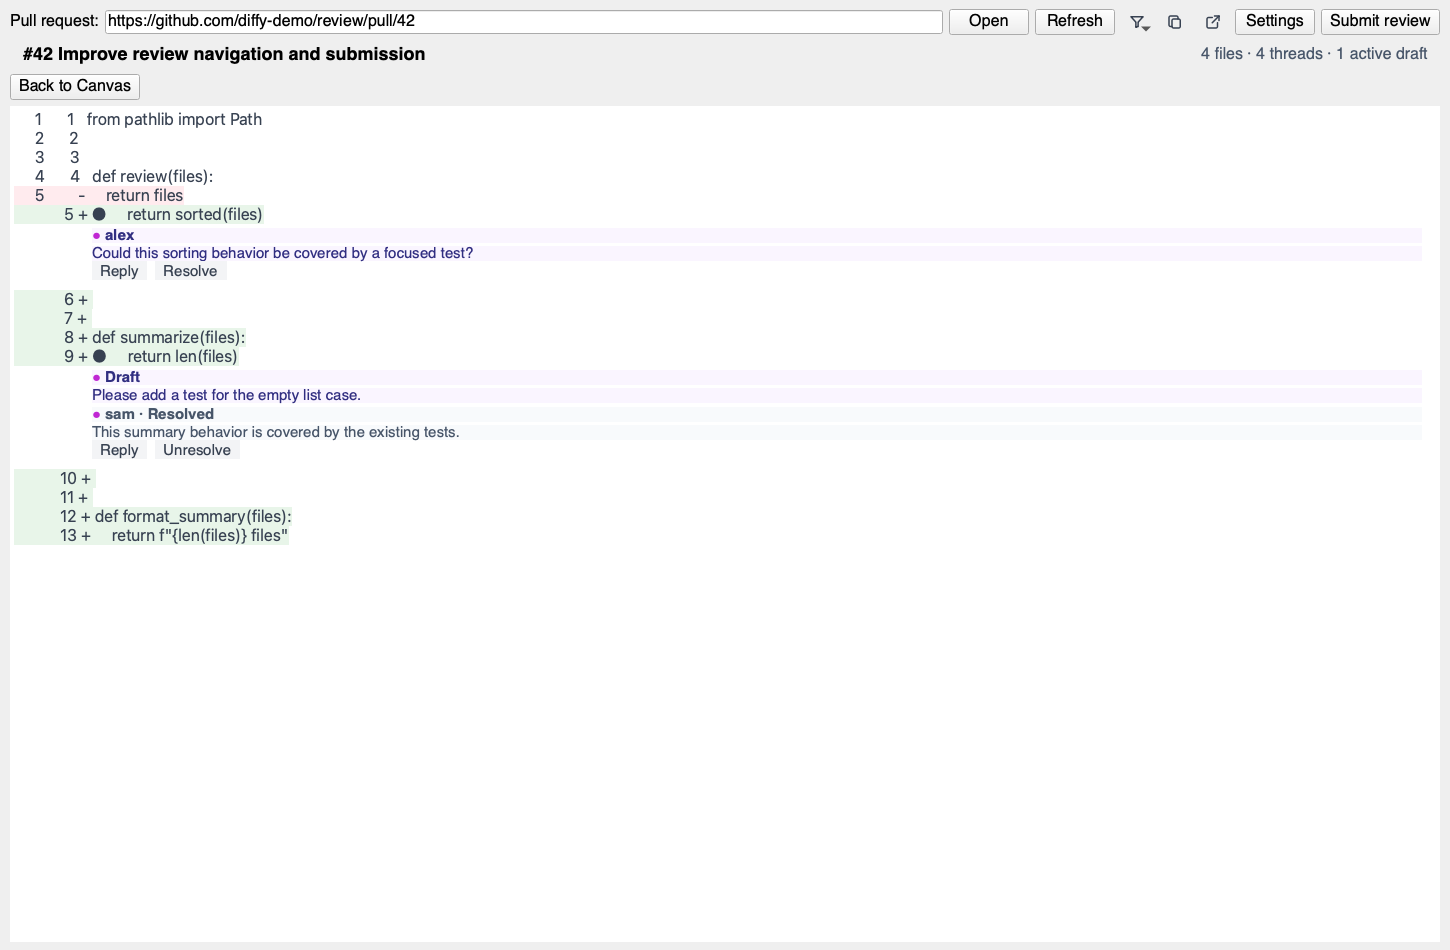
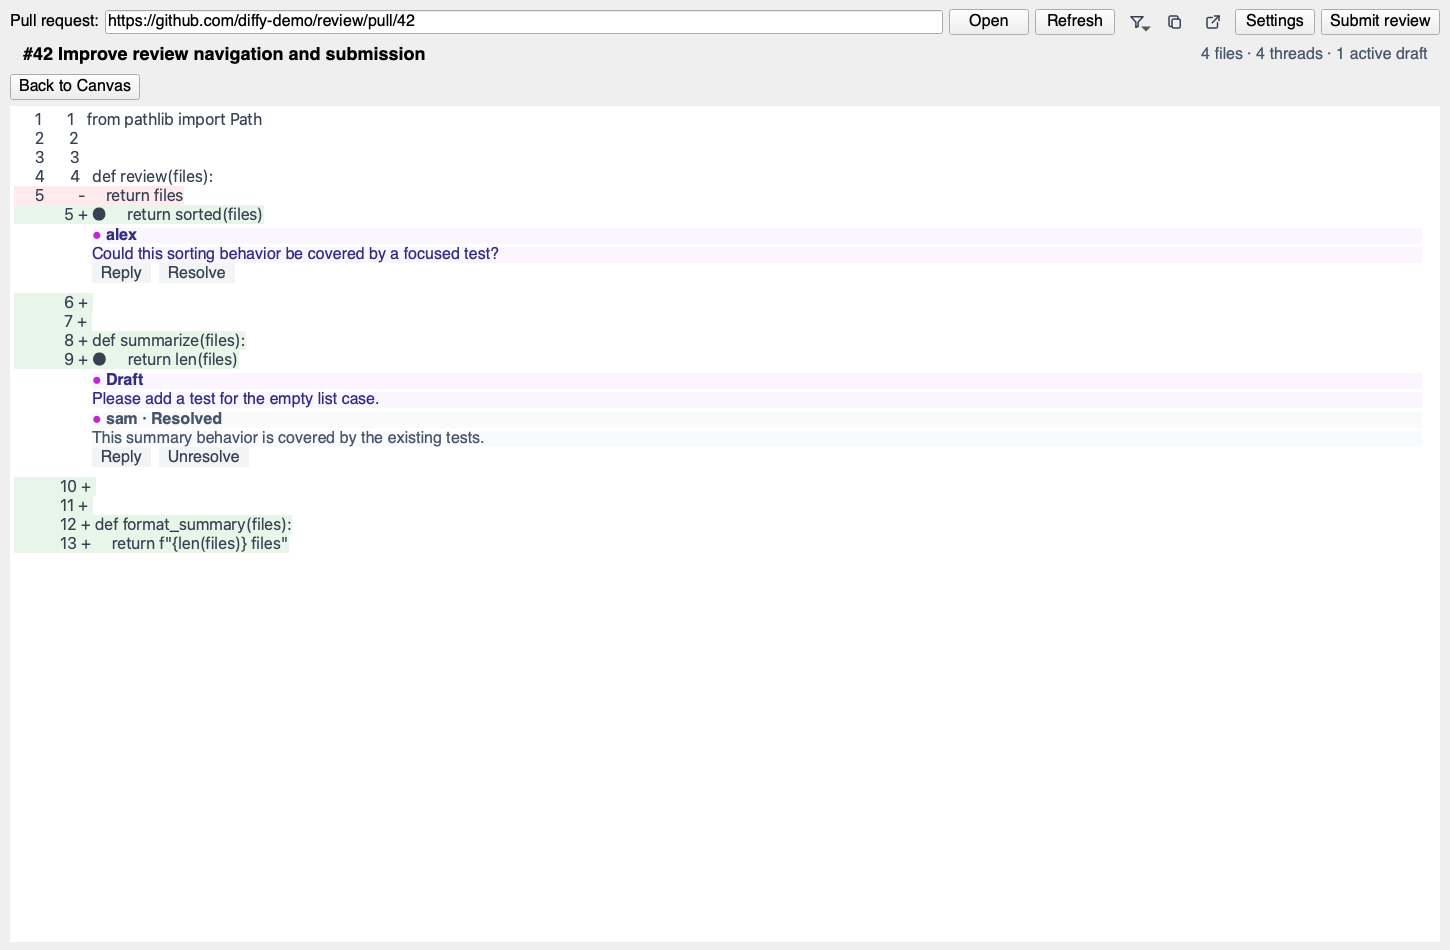
Configure canvas and diff font sizes

Changed region(s): [[0.031, 0.3053, 0.3414, 0.4884], [0.0621, 0.2442, 0.3414, 0.3053], [0.031, 0.4884, 0.2172, 0.58]]

diff --git a/diffy/ui/main_window.py b/diffy/ui/main_window.py
@@ -137,6 +137,7 @@ class DiffViewer(QTextBrowser):
         self.customContextMenuRequested.connect(self._context_menu_requested)
         self.setFont(QFont("SF Mono", 12))
         self.ui_font_family = "Helvetica"
+        self.diff_font_size = 12
         self.setStyleSheet("QTextBrowser { background: #ffffff; color: #111827; border: 0; }")
         self.lines = []
         self.file_path = ""
@@ -144,6 +145,10 @@ class DiffViewer(QTextBrowser):
 
     def set_ui_font(self, font_family: str) -> None:
         self.ui_font_family = font_family
+
+    def set_diff_font_size(self, font_size: int) -> None:
+        self.diff_font_size = font_size
+        self.setFont(QFont("SF Mono", font_size))
 
     def _inline_comment(self, author: str, body: str, resolved: bool = False) -> str:
         body_html = html.escape(body).replace("\n", "<br>")
@@ -230,15 +235,15 @@ class DiffViewer(QTextBrowser):
         self.setHtml(
             "<style>"
             "body { background: #ffffff; color: #111827; margin: 0; }"
-            ".diff-line { font-family: 'SF Mono'; font-size: 12pt; white-space: pre; }"
+            f".diff-line {{ font-family: 'SF Mono'; font-size: {self.diff_font_size}pt; white-space: pre; }}"
             ".diff-line a { display: block; padding: 3px 8px; text-decoration: none; }"
-            f".file-comments-header {{ margin: 8px 14px 4px 14px; color: #86198f; font-family: '{html.escape(self.ui_font_family)}'; font-size: 11pt; font-weight: 700; }}"
-            f".inline-comment {{ margin: 4px 14px 10px 78px; padding: 9px 12px; border-left: 3px solid #c026d3; border-radius: 4px; background: #faf5ff; color: #312e81; font-family: '{html.escape(self.ui_font_family)}'; font-size: 11pt; white-space: normal; }}"
+            f".file-comments-header {{ margin: 8px 14px 4px 14px; color: #86198f; font-family: '{html.escape(self.ui_font_family)}'; font-size: {self.diff_font_size}pt; font-weight: 700; }}"
+            f".inline-comment {{ margin: 4px 14px 10px 78px; padding: 9px 12px; border-left: 3px solid #c026d3; border-radius: 4px; background: #faf5ff; color: #312e81; font-family: '{html.escape(self.ui_font_family)}'; font-size: {self.diff_font_size}pt; white-space: normal; }}"
             ".inline-comment.resolved { border-left-color: #94a3b8; background: #f8fafc; color: #475569; }"
             ".comment-meta { font-weight: 600; margin-bottom: 3px; }"
             ".comment-dot { color: #c026d3; }"
             ".thread-actions { margin: -4px 14px 10px 78px; white-space: normal; }"
-            f".thread-actions a {{ display: inline-block; margin-right: 8px; padding: 4px 12px; border: 1px solid #d1d5db; border-radius: 6px; background: #f3f4f6; color: #374151; font-family: '{html.escape(self.ui_font_family)}'; font-size: 11pt; text-decoration: none; }}"
+            f".thread-actions a {{ display: inline-block; margin-right: 8px; padding: 4px 12px; border: 1px solid #d1d5db; border-radius: 6px; background: #f3f4f6; color: #374151; font-family: '{html.escape(self.ui_font_family)}'; font-size: {self.diff_font_size}pt; text-decoration: none; }}"
             ".thread-actions a:hover { background: #e5e7eb; border-color: #9ca3af; }"
             ".empty-diff { color: #6b7280; padding: 8px; }"
             "</style>"
@@ -288,7 +293,15 @@ class DiffViewer(QTextBrowser):
 
 
 class ShortcutDialog(QDialog):
-    def __init__(self, shortcuts: dict[str, QKeySequence], center_duration: int, font_family: str, parent: QWidget | None = None):
+    def __init__(
+        self,
+        shortcuts: dict[str, QKeySequence],
+        center_duration: int,
+        font_family: str,
+        canvas_font_size: int,
+        diff_font_size: int,
+        parent: QWidget | None = None,
+    ):
         super().__init__(parent)
         self.setWindowTitle("Settings")
         self.edits: dict[str, QKeySequenceEdit] = {}
@@ -299,6 +312,14 @@ class ShortcutDialog(QDialog):
         self.center_duration.setValue(center_duration)
         self.font_selector = QFontComboBox()
         self.font_selector.setCurrentFont(QFont(font_family))
+        self.canvas_font_size = QSpinBox()
+        self.canvas_font_size.setRange(10, 24)
+        self.canvas_font_size.setSuffix(" pt")
+        self.canvas_font_size.setValue(canvas_font_size)
+        self.diff_font_size = QSpinBox()
+        self.diff_font_size.setRange(10, 24)
+        self.diff_font_size.setSuffix(" pt")
+        self.diff_font_size.setValue(diff_font_size)
         layout = QVBoxLayout(self)
         form = QFormLayout()
         for shortcut_id, label in SHORTCUT_LABELS.items():
@@ -308,6 +329,8 @@ class ShortcutDialog(QDialog):
             form.addRow(label, edit)
         form.addRow("Canvas centering duration", self.center_duration)
         form.addRow("Application font", self.font_selector)
+        form.addRow("Canvas font size", self.canvas_font_size)
+        form.addRow("Diff view font size", self.diff_font_size)
         layout.addLayout(form)
         buttons = QDialogButtonBox(QDialogButtonBox.StandardButton.Cancel | QDialogButtonBox.StandardButton.Ok)
         reset_button = buttons.addButton("Restore defaults", QDialogButtonBox.ButtonRole.ResetRole)
@@ -315,7 +338,7 @@ class ShortcutDialog(QDialog):
         buttons.accepted.connect(self._accept)
         buttons.rejected.connect(self.reject)
         layout.addWidget(buttons)
-        self.resize(500, 600)
+        self.resize(500, 680)
 
     def restore_defaults(self) -> None:
         for shortcut_id, default in SHORTCUT_DEFAULTS.items():
@@ -340,6 +363,9 @@ class ShortcutDialog(QDialog):
 
     def font_family(self) -> str:
         return self.font_selector.currentFont().family()
+
+    def font_sizes(self) -> tuple[int, int]:
+        return self.canvas_font_size.value(), self.diff_font_size.value()
 
 
 class QuickSearchDialog(QDialog):
@@ -472,6 +498,7 @@ class SpatialCanvas(QGraphicsView):
         self.zoom = 1.0
         self.fit_scale = 1.0
         self.font_family = "Helvetica"
+        self.font_size = 15
         self.auto_fit = True
         self.collapsed_folders: set[str] = set()
         self.tree: dict = {"folders": {}, "files": []}
@@ -492,6 +519,11 @@ class SpatialCanvas(QGraphicsView):
 
     def set_font_family(self, font_family: str) -> None:
         self.font_family = font_family
+        if self.files:
+            self._render_tree()
+
+    def set_font_size(self, font_size: int) -> None:
+        self.font_size = max(10, min(24, font_size))
         if self.files:
             self._render_tree()
 
@@ -567,7 +599,7 @@ class SpatialCanvas(QGraphicsView):
         row_height = 88
         node_height = 64
         column_gap = 90
-        metrics = QFontMetrics(QFont(self.font_family, 15))
+        metrics = QFontMetrics(QFont(self.font_family, self.font_size))
 
         def estimated_width(icon: str, name: str, status: str | None, additions: int, deletions: int, comment_counts: tuple[int, int]) -> int:
             icon_width = metrics.horizontalAdvance(icon)
@@ -642,6 +674,7 @@ class SpatialCanvas(QGraphicsView):
             callback=None,
         ) -> None:
             node = TreeNodeWidget(icon, name, status, additions, deletions, comment_counts[0], comment_counts[1], width, node_height, style, tooltip, self.shortcuts)
+            node.setFont(QFont(self.font_family, self.font_size))
             if callback:
                 node.clicked.connect(callback)
             node.focused.connect(lambda node=node: self._node_focus_changed(node))
@@ -1086,6 +1119,8 @@ class MainWindow(QMainWindow):
         self.hidden_reviewers: set[str] = set()
         self.settings = QSettings("namuan", "diffy")
         self.center_duration = self._load_center_duration()
+        self.canvas_font_size = self._load_font_size("canvas", 15)
+        self.diff_font_size = self._load_font_size("diff", 12)
         self.font_family = self._load_font_family()
         QApplication.setFont(QFont(self.font_family))
         self.setFont(QFont(self.font_family))
@@ -1187,6 +1222,7 @@ class MainWindow(QMainWindow):
         self.canvas = SpatialCanvas()
         self.canvas.set_center_duration(self.center_duration)
         self.canvas.set_font_family(self.font_family)
+        self.canvas.set_font_size(self.canvas_font_size)
         self.canvas.set_shortcuts(self.shortcut_sequences)
         self.canvas.file_selected.connect(self.open_diff)
         self.canvas.zoom_changed.connect(self._update_canvas_zoom_label)
@@ -1215,6 +1251,7 @@ class MainWindow(QMainWindow):
         content_layout.addLayout(diff_toolbar)
         self.diff_viewer = DiffViewer()
         self.diff_viewer.set_ui_font(self.font_family)
+        self.diff_viewer.set_diff_font_size(self.diff_font_size)
         self.diff_viewer.line_selected.connect(self._line_selected)
         self.diff_viewer.comment_requested.connect(self._comment_requested)
         self.diff_viewer.thread_action.connect(self._thread_action_requested)
@@ -1271,6 +1308,12 @@ class MainWindow(QMainWindow):
         except (TypeError, ValueError):
             return 350
 
+    def _load_font_size(self, name: str, default: int) -> int:
+        try:
+            return max(10, min(24, int(self.settings.value(f"appearance/{name}_font_size", default))))
+        except (TypeError, ValueError):
+            return default
+
     def _load_font_family(self) -> str:
         default = "Helvetica"
         if default not in QFontDatabase.families():
@@ -1287,19 +1330,31 @@ class MainWindow(QMainWindow):
         return shortcuts
 
     def show_shortcut_settings(self) -> None:
-        dialog = ShortcutDialog(self.shortcut_sequences, self.center_duration, self.font_family, self)
+        dialog = ShortcutDialog(
+            self.shortcut_sequences,
+            self.center_duration,
+            self.font_family,
+            self.canvas_font_size,
+            self.diff_font_size,
+            self,
+        )
         if dialog.exec() != QDialog.DialogCode.Accepted:
             return
         self.shortcut_sequences = dialog.values()
         self.center_duration = dialog.centering_duration()
         self.font_family = dialog.font_family()
+        self.canvas_font_size, self.diff_font_size = dialog.font_sizes()
         self.settings.setValue("canvas/center_duration", self.center_duration)
         self.settings.setValue("appearance/font_family", self.font_family)
+        self.settings.setValue("appearance/canvas_font_size", self.canvas_font_size)
+        self.settings.setValue("appearance/diff_font_size", self.diff_font_size)
         QApplication.setFont(QFont(self.font_family))
         self.setFont(QFont(self.font_family))
         self.canvas.set_center_duration(self.center_duration)
         self.canvas.set_font_family(self.font_family)
+        self.canvas.set_font_size(self.canvas_font_size)
         self.diff_viewer.set_ui_font(self.font_family)
+        self.diff_viewer.set_diff_font_size(self.diff_font_size)
         for shortcut_id, shortcut in self.shortcut_sequences.items():
             self.settings.setValue(
                 f"shortcuts/{shortcut_id}",
